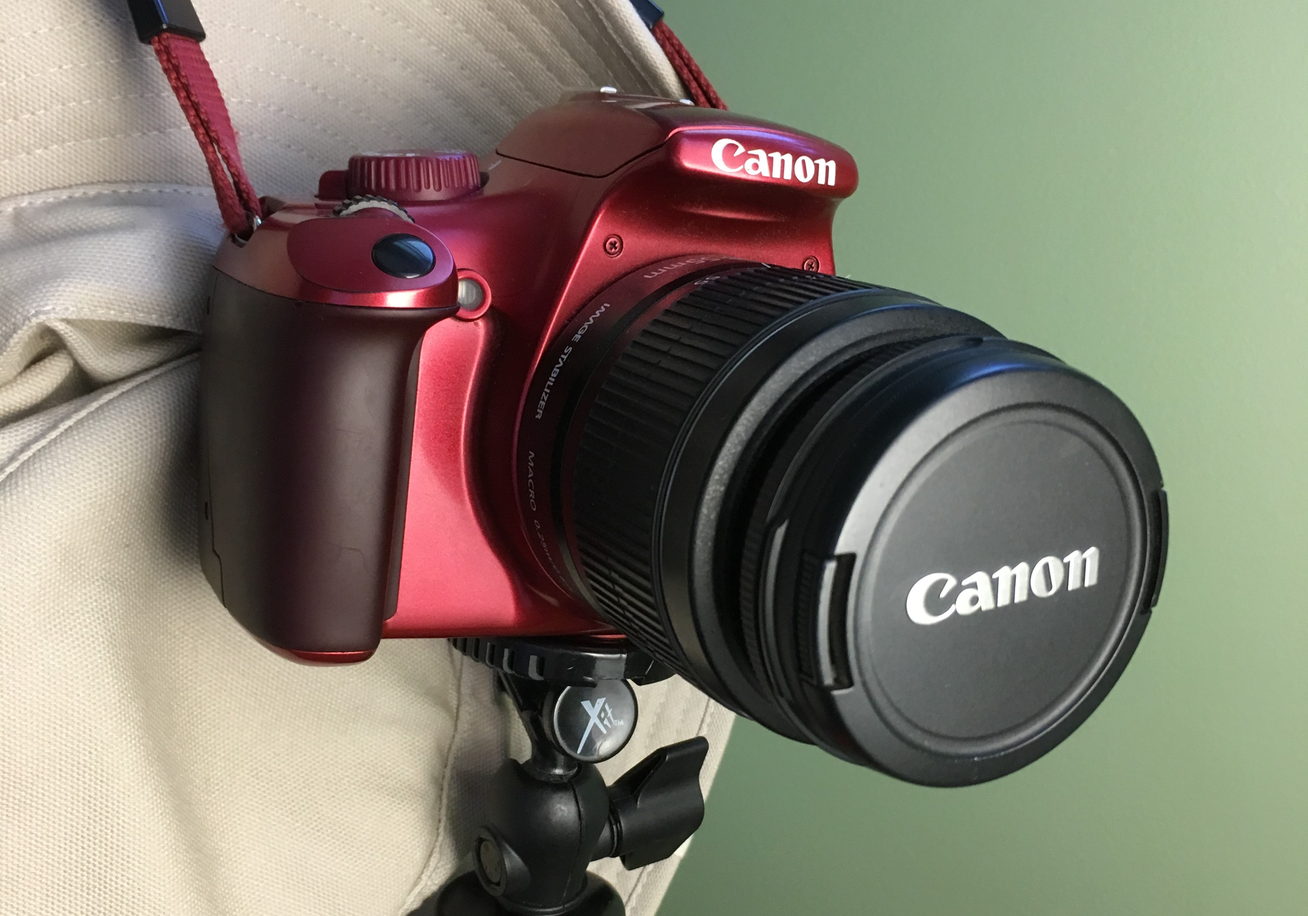
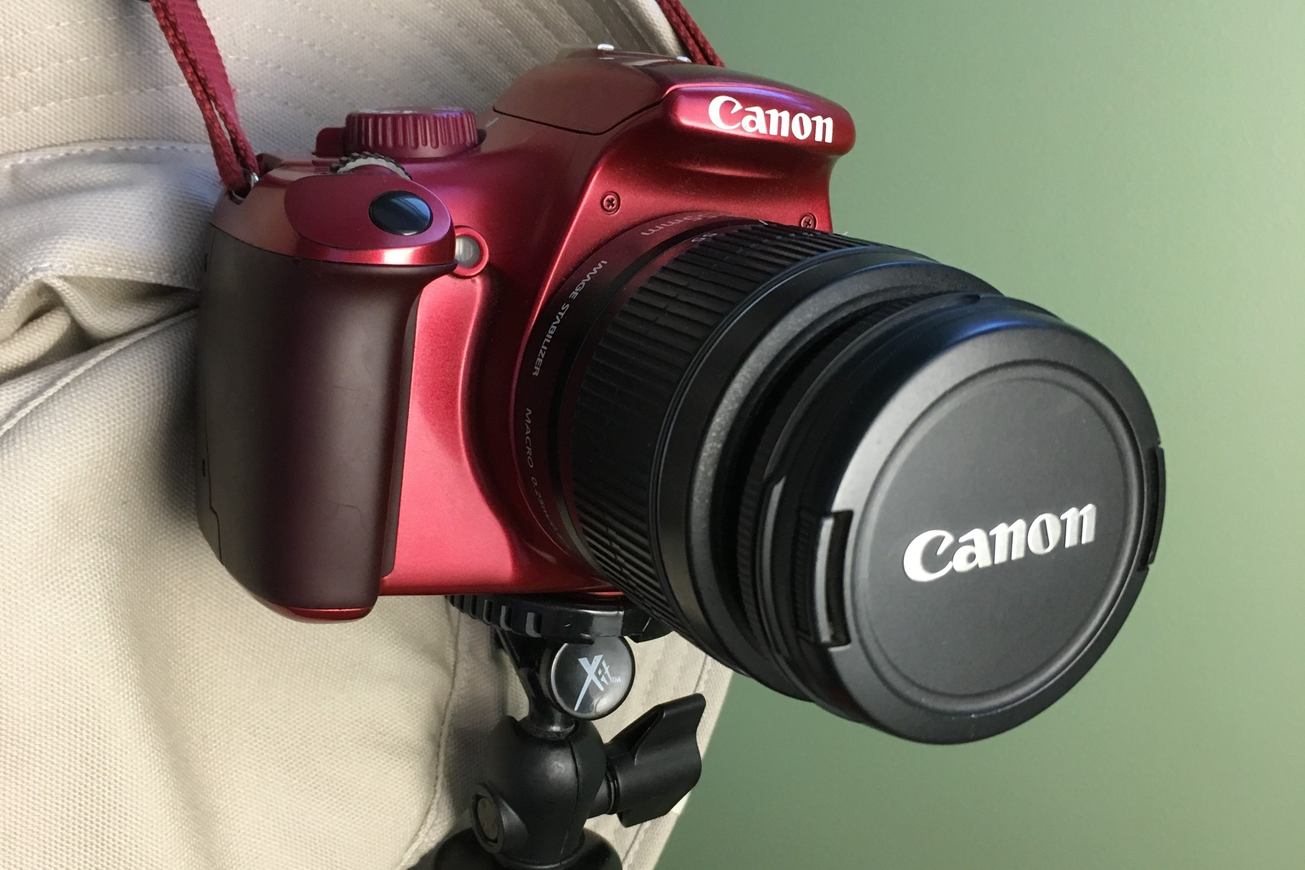
Cropped photos, updated modals and links.

diff --git a/index.html b/index.html
@@ -630,14 +630,6 @@
                         <div class="col-md-6">
                             <div class="involvements-item">
                                 <a href="#involvementsModal5" data-toggle="modal">
-                                    <h3 class="involvements-title">LEGO</h3>
-                                    <img class="img-involvements img-responsive" src="img/IMG_7858.jpg" alt="">
-                                </a>
-                            </div>
-                        </div>
-                        <div class="col-md-6">
-                            <div class="involvements-item">
-                                <a href="#involvementsModal6" data-toggle="modal">
                                     <h3 class="involvements-title">Music</h3>
                                     <img class="img-involvements img-responsive" src="img/IMG_7850.jpg" alt="">
                                 </a>
@@ -645,7 +637,7 @@
                         </div>
                         <div class="col-md-6">
                             <div class="involvements-item">
-                                <a href="#involvementsModal7" data-toggle="modal">
+                                <a href="#involvementsModal6" data-toggle="modal">
                                     <h3 class="involvements-title">Endurance sports</h3>
                                     <img class="img-involvements img-responsive" src="img/spartan.jpg" alt="">
                                 </a>
@@ -653,7 +645,7 @@
                         </div>
                     </div>
                     <!-- /.row (nested) -->
-                    <a href="#involvementsModalMore" class="btn btn-dark"><b>More</b></a>
+                    <a href="#involvementsModalMore" data-toggle="modal" class="btn btn-dark"><b>More</b></a>
                 </div>
                 <!-- /.col-lg-10 -->
             </div>
@@ -675,9 +667,9 @@
                 <div class="row">
                     <div class="col-lg-8 col-lg-offset-2">
                         <div class="modal-body">
-                            <h2>Hopperide, Inc.</h2>
+                            <h2>Travel</h2>
                             <hr>
-                            <img src="img/involvements-1.jpg" class="img-responsive img-centered" alt="">
+                            <img src="img/IMG_3206.jpg" class="img-responsive img-centered" alt="">
                             <p>Use this area of the page to describe your project. The icon above is part of a free icon set by <a href="https://sellfy.com/p/8Q9P/jV3VZ/">Flat Icons</a>. On their website, you can download their free set with 16 icons, or you can purchase the entire set with 146 icons for only $12!</p>
                             <ul class="list-inline item-details">
                                 <li>Client:
@@ -712,9 +704,9 @@
                 <div class="row">
                     <div class="col-lg-8 col-lg-offset-2">
                         <div class="modal-body">
-                            <h2>Saturday Mechanic</h2>
+                            <h2>Outdoors</h2>
                             <hr>
-                            <img src="img/involvements-2.jpg" class="img-responsive img-centered" alt="">
+                            <img src="img/winter-camping.jpg" class="img-responsive img-centered" alt="">
                             <p>Use this area of the page to describe your project. The icon above is part of a free icon set by <a href="https://sellfy.com/p/8Q9P/jV3VZ/">Flat Icons</a>. On their website, you can download their free set with 16 icons, or you can purchase the entire set with 146 icons for only $12!</p>
                             <ul class="list-inline item-details">
                                 <li>Client:
@@ -749,9 +741,9 @@
                 <div class="row">
                     <div class="col-lg-8 col-lg-offset-2">
                         <div class="modal-body">
-                            <h2>Photography</h2>
+                            <h2>Saturday Mechanic</h2>
                             <hr>
-                            <img src="img/involvements-3.jpg" class="img-responsive img-centered" alt="">
+                            <img src="img/IMG_7854.jpg" class="img-responsive img-centered" alt="">
                             <p>Use this area of the page to describe your project. The icon above is part of a free icon set by <a href="https://sellfy.com/p/8Q9P/jV3VZ/">Flat Icons</a>. On their website, you can download their free set with 16 icons, or you can purchase the entire set with 146 icons for only $12!</p>
                             <ul class="list-inline item-details">
                                 <li>Client:
@@ -786,9 +778,120 @@
                 <div class="row">
                     <div class="col-lg-8 col-lg-offset-2">
                         <div class="modal-body">
+                            <h2>Photography</h2>
+                            <hr>
+                            <img src="img/IMG_5228_c.jpg" class="img-responsive img-centered" alt="">
+                            <p>Use this area of the page to describe your project. The icon above is part of a free icon set by <a href="https://sellfy.com/p/8Q9P/jV3VZ/">Flat Icons</a>. On their website, you can download their free set with 16 icons, or you can purchase the entire set with 146 icons for only $12!</p>
+                            <ul class="list-inline item-details">
+                                <li>Client:
+                                    <strong><a href="http://startbootstrap.com">Start Bootstrap</a>
+                                    </strong>
+                                </li>
+                                <li>Date:
+                                    <strong><a href="http://startbootstrap.com">April 2014</a>
+                                    </strong>
+                                </li>
+                                <li>Service:
+                                    <strong><a href="http://startbootstrap.com">Web Development</a>
+                                    </strong>
+                                </li>
+                            </ul>
+                            <button type="button" class="btn btn-default" data-dismiss="modal"><i class="fa fa-times"></i> Close</button>
+                        </div>
+                    </div>
+                </div>
+            </div>
+        </div>
+    </div>
+    <div class="modal fade" id="involvementsModal5" tabindex="-1" role="dialog" aria-hidden="true">
+        <div class="modal-content">
+            <div class="close-modal" data-dismiss="modal">
+                <div class="lr">
+                    <div class="rl">
+                    </div>
+                </div>
+            </div>
+            <div class="container">
+                <div class="row">
+                    <div class="col-lg-8 col-lg-offset-2">
+                        <div class="modal-body">
                             <h2>Music</h2>
                             <hr>
-                            <img src="img/involvements-4.jpg" class="img-responsive img-centered" alt="">
+                            <img src="img/IMG_7850.jpg" class="img-responsive img-centered" alt="">
+                            <p>Use this area of the page to describe your project. The icon above is part of a free icon set by <a href="https://sellfy.com/p/8Q9P/jV3VZ/">Flat Icons</a>. On their website, you can download their free set with 16 icons, or you can purchase the entire set with 146 icons for only $12!</p>
+                            <ul class="list-inline item-details">
+                                <li>Client:
+                                    <strong><a href="http://startbootstrap.com">Start Bootstrap</a>
+                                    </strong>
+                                </li>
+                                <li>Date:
+                                    <strong><a href="http://startbootstrap.com">April 2014</a>
+                                    </strong>
+                                </li>
+                                <li>Service:
+                                    <strong><a href="http://startbootstrap.com">Web Development</a>
+                                    </strong>
+                                </li>
+                            </ul>
+                            <button type="button" class="btn btn-default" data-dismiss="modal"><i class="fa fa-times"></i> Close</button>
+                        </div>
+                    </div>
+                </div>
+            </div>
+        </div>
+    </div>
+    <div class="modal fade" id="involvementsModal6" tabindex="-1" role="dialog" aria-hidden="true">
+        <div class="modal-content">
+            <div class="close-modal" data-dismiss="modal">
+                <div class="lr">
+                    <div class="rl">
+                    </div>
+                </div>
+            </div>
+            <div class="container">
+                <div class="row">
+                    <div class="col-lg-8 col-lg-offset-2">
+                        <div class="modal-body">
+                            <h2>Endurance sports</h2>
+                            <hr>
+                            <img src="img/spartan.jpg" class="img-responsive img-centered" alt="">
+                            <p>Use this area of the page to describe your project. The icon above is part of a free icon set by <a href="https://sellfy.com/p/8Q9P/jV3VZ/">Flat Icons</a>. On their website, you can download their free set with 16 icons, or you can purchase the entire set with 146 icons for only $12!</p>
+                            <ul class="list-inline item-details">
+                                <li>Client:
+                                    <strong><a href="http://startbootstrap.com">Start Bootstrap</a>
+                                    </strong>
+                                </li>
+                                <li>Date:
+                                    <strong><a href="http://startbootstrap.com">April 2014</a>
+                                    </strong>
+                                </li>
+                                <li>Service:
+                                    <strong><a href="http://startbootstrap.com">Web Development</a>
+                                    </strong>
+                                </li>
+                            </ul>
+                            <button type="button" class="btn btn-default" data-dismiss="modal"><i class="fa fa-times"></i> Close</button>
+                        </div>
+                    </div>
+                </div>
+            </div>
+        </div>
+    </div>
+    <div class="modal fade" id="involvementsModalMore" tabindex="-1" role="dialog" aria-hidden="true">
+        <div class="modal-content">
+            <div class="close-modal" data-dismiss="modal">
+                <div class="lr">
+                    <div class="rl">
+                    </div>
+                </div>
+            </div>
+            <div class="container">
+                <div class="row">
+                    <div class="col-lg-8 col-lg-offset-2">
+                        <div class="modal-body">
+                            <h2>Extracurricular Activities</h2>
+                            <hr>
+                            <!--img src="img/spartan.jpg" class="img-responsive img-centered" alt=""-->
                             <p>Use this area of the page to describe your project. The icon above is part of a free icon set by <a href="https://sellfy.com/p/8Q9P/jV3VZ/">Flat Icons</a>. On their website, you can download their free set with 16 icons, or you can purchase the entire set with 146 icons for only $12!</p>
                             <ul class="list-inline item-details">
                                 <li>Client:
